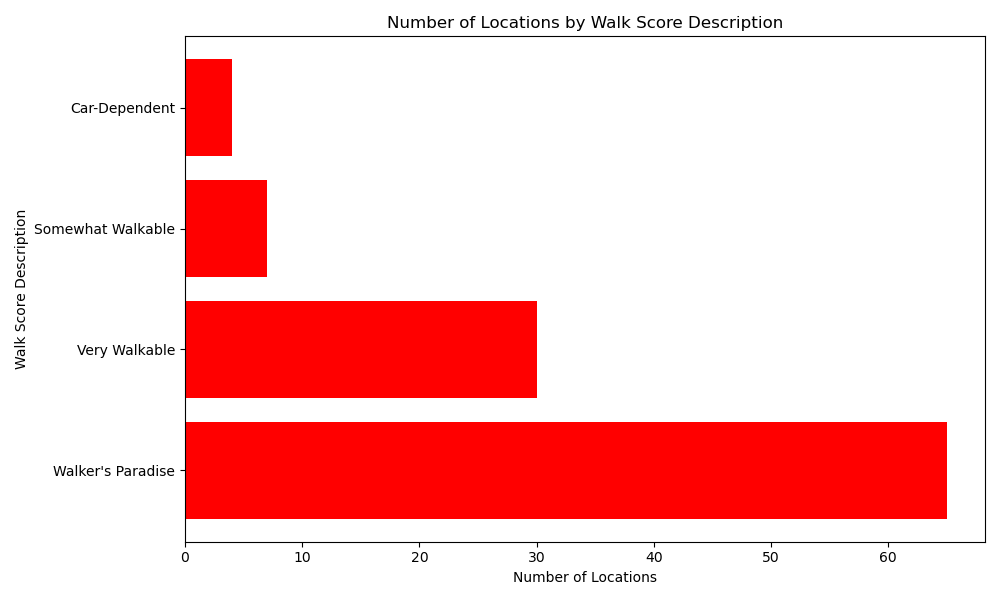
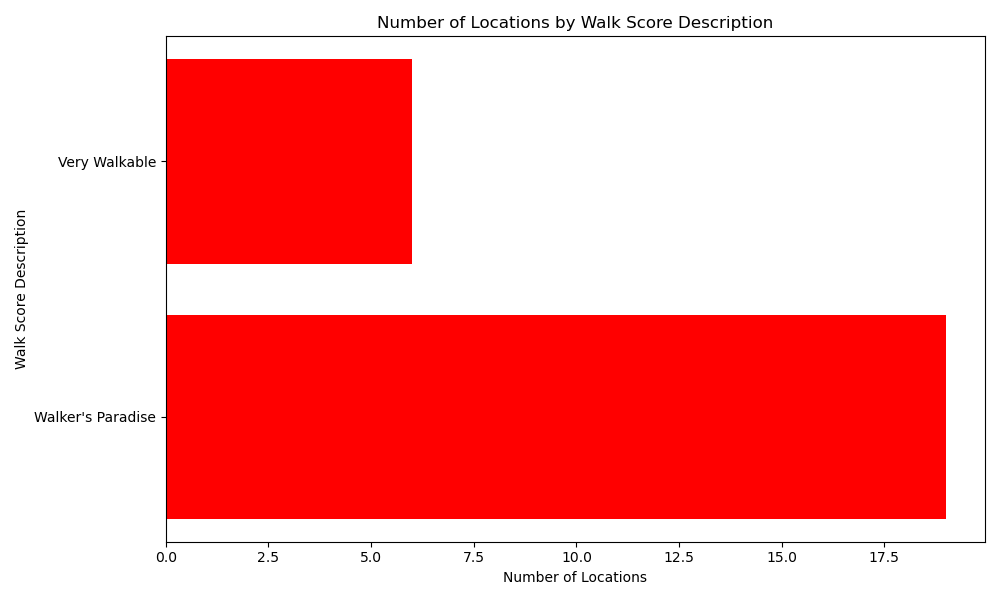
changed the description column to description_id so no duplicate strings appear

diff --git a/micah.py b/micah.py
@@ -160,14 +160,18 @@ def create_SQL(conn):
         longitude REAL NOT NULL,
         UNIQUE(latitude, longitude));""")
 
-    cur.execute("""CREATE TABLE IF NOT EXISTS walkscore_results (id INTEGER PRIMARY KEY AUTOINCREMENT,
+    cur.execute("""CREATE TABLE IF NOT EXISTS description_categories (id INTEGER PRIMARY KEY AUTOINCREMENT,text TEXT UNIQUE);""")
+    
+    cur.execute("""CREATE TABLE IF NOT EXISTS walkscore_results (
+        id INTEGER PRIMARY KEY AUTOINCREMENT,
         location_id INTEGER NOT NULL,
         walkscore INTEGER,
-        description TEXT,
+        description_id INTEGER,
         transit_score INTEGER,
         bike_score INTEGER,
         UNIQUE(location_id),
-        FOREIGN KEY(location_id) REFERENCES locations(id));""")
+        FOREIGN KEY(location_id) REFERENCES locations(id),
+        FOREIGN KEY(description_id) REFERENCES description_categories(id));""")
     conn.commit()
 
 
@@ -205,15 +209,31 @@ def get_coords(conn, coords):
             transit_score = 0
         if bike_score is None:
             bike_score = 0
-        cur.execute("""INSERT INTO walkscore_results (location_id, walkscore, description, transit_score, bike_score) VALUES (?, ?, ?, ?, ?)""",
-        (location_id, data.get("walkscore"), data.get("description"), transit_score, bike_score))
+        
+        description_text = data.get("description")
+        cur.execute(
+            "INSERT OR IGNORE INTO description_categories (text) VALUES (?)",
+            (description_text,)
+        )
+        conn.commit()
+
+        cur.execute(
+            "SELECT id FROM description_categories WHERE text=?",
+            (description_text,)
+        )
+        description_id = cur.fetchone()[0]
+
+        cur.execute("""INSERT INTO walkscore_results (location_id, walkscore, description_id, transit_score, bike_score) VALUES (?, ?, ?, ?, ?)""",
+        (location_id, data.get("walkscore"), description_id, transit_score, bike_score))
         conn.commit()
         time.sleep(1)
 
 
 def num_description_and_visual(conn):
     cur = conn.cursor()
-    cur.execute("SELECT description, COUNT(*) FROM walkscore_results GROUP BY description")
+    cur.execute("""SELECT d.text, COUNT(*) FROM walkscore_results w
+    JOIN description_categories d ON w.description_id = d.id
+    GROUP BY d.text""")
     results = cur.fetchall()
 
     descriptions = [desc for desc, count in results]
@@ -239,7 +259,7 @@ def calc_and_write(results):
             f.write(f"{description}: {count}\n")
 
 def main():
-    conn = sqlite3.connect("test.db")
+    conn = sqlite3.connect("walkscoretest.db")
     create_SQL(conn)
     get_coords(conn, coordinate_points)
     results = num_description_and_visual(conn)
@@ -249,54 +269,3 @@ def main():
 
 if __name__ == "__main__":
     main()
-
-# def walkscore_per_aqi():
-#     conn = sqlite3.connect("test.db")
-#     cur = conn.cursor()
-#     cur.execute("""SELECT aqi.aqi, ws.description FROM aqi_results aqi
-#         JOIN location_mapping lm ON aqi.location_id = lm.aqi_location_id
-#         JOIN walkscore_results ws ON ws.location_id = lm.location_id""")
-#     rows = cur.fetchall()
-#     conn.close()
-
-#     total_wp = {}
-#     walkers_paradise_counts = {}
-
-#     for aqi, description in rows:
-#         category1 = aqi_category(aqi)
-#         total_wp[category1] = total_wp.get(category1, 0) + 1
-#         if description == "Walkers Paradise":
-#             walkers_paradise_counts[category1] = walkers_paradise_counts.get(category1, 0) + 1
-#     rates = {}
-#     for category, total in total_wp.items():
-#         wp_count = walkers_paradise_counts.get(category, 0)
-#         rates[category] = wp_count / total if total > 0 else 0
-#     return rates
-
-# def get_top_songs(db) -> dict:
-#     conn = sqlite3.connect(db)
-#     cur = conn.cursor()
-#     cur.execute("""SELECT tracks.name AS track_name, artists.name AS artist_name, COUNT(*) AS play_count FROM listening_history
-#         JOIN tracks ON listening_history.track_id = tracks.id
-#         JOIN albums ON tracks.album_id = albums.id
-#         JOIN artists ON albums.artist_id = artists.id
-#         GROUP BY tracks.name, artists.name
-#         ORDER BY play_count DESC
-#         LIMIT 5;""")
-#     rows = cur.fetchall()
-#     conn.close()
-
-#     top_songs = {}
-#     for track, artist, play_count in rows:
-#         top_songs[track] = play_count
-
-#     plt.figure(figsize=(10, 6))
-#     plt.barh(list(top_songs.keys()), list(top_songs.values()))
-#     plt.xlabel("Play Count")
-#     plt.title("Top 5 Most-Played Songs")
-#     plt.gca().invert_yaxis()
-#     plt.tight_layout()
-#     plt.savefig("top_songs.png")
-#     plt.close()
-
-#     return top_songs

diff --git a/combinedcode.py b/combinedcode.py
@@ -204,14 +204,18 @@ def create_SQL(conn):
         longitude REAL NOT NULL,
         UNIQUE(latitude, longitude));""")
 
-    cur.execute("""CREATE TABLE IF NOT EXISTS walkscore_results (id INTEGER PRIMARY KEY AUTOINCREMENT,
+    cur.execute("""CREATE TABLE IF NOT EXISTS description_categories (id INTEGER PRIMARY KEY AUTOINCREMENT,text TEXT UNIQUE);""")
+    
+    cur.execute("""CREATE TABLE IF NOT EXISTS walkscore_results (
+        id INTEGER PRIMARY KEY AUTOINCREMENT,
         location_id INTEGER NOT NULL,
         walkscore INTEGER,
-        description TEXT,
+        description_id INTEGER,
         transit_score INTEGER,
         bike_score INTEGER,
         UNIQUE(location_id),
-        FOREIGN KEY(location_id) REFERENCES locations(id));""")
+        FOREIGN KEY(location_id) REFERENCES locations(id),
+        FOREIGN KEY(description_id) REFERENCES description_categories(id));""")
     conn.commit()
 
 
@@ -248,15 +252,31 @@ def get_coords(conn, coords):
             transit_score = 0
         if bike_score is None:
             bike_score = 0
-        cur.execute("""INSERT INTO walkscore_results (location_id, walkscore, description, transit_score, bike_score) VALUES (?, ?, ?, ?, ?)""",
-        (location_id, data.get("walkscore"), data.get("description"), transit_score, bike_score))
+        
+        description_text = data.get("description")
+        cur.execute(
+            "INSERT OR IGNORE INTO description_categories (text) VALUES (?)",
+            (description_text,)
+        )
+        conn.commit()
+
+        cur.execute(
+            "SELECT id FROM description_categories WHERE text=?",
+            (description_text,)
+        )
+        description_id = cur.fetchone()[0]
+
+        cur.execute("""INSERT INTO walkscore_results (location_id, walkscore, description_id, transit_score, bike_score) VALUES (?, ?, ?, ?, ?)""",
+        (location_id, data.get("walkscore"), description_id, transit_score, bike_score))
         conn.commit()
         time.sleep(1)
 
 
 def num_description_and_visual(conn):
     cur = conn.cursor()
-    cur.execute("SELECT description, COUNT(*) FROM walkscore_results GROUP BY description")
+    cur.execute("""SELECT d.text, COUNT(*) FROM walkscore_results w
+    JOIN description_categories d ON w.description_id = d.id
+    GROUP BY d.text""")
     results = cur.fetchall()
 
     descriptions = [desc for desc, count in results]
